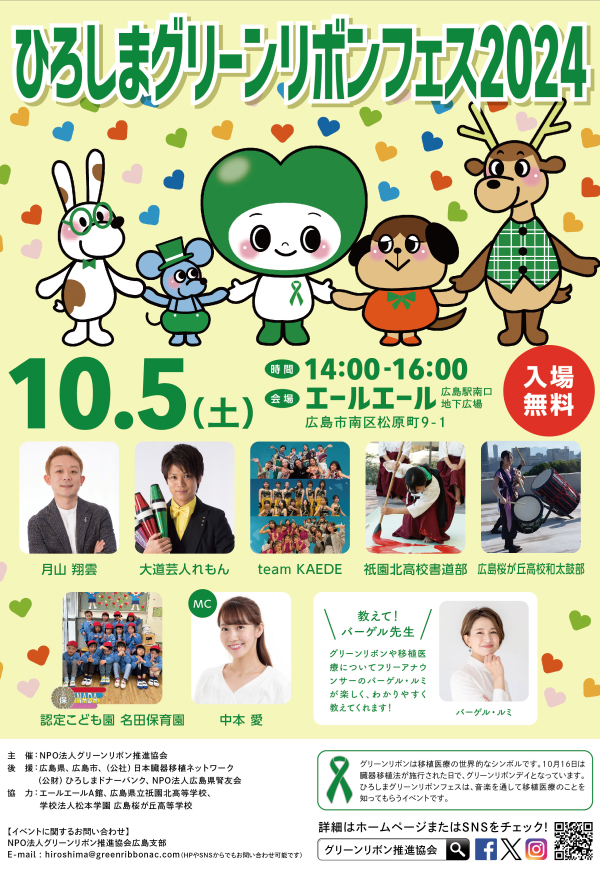
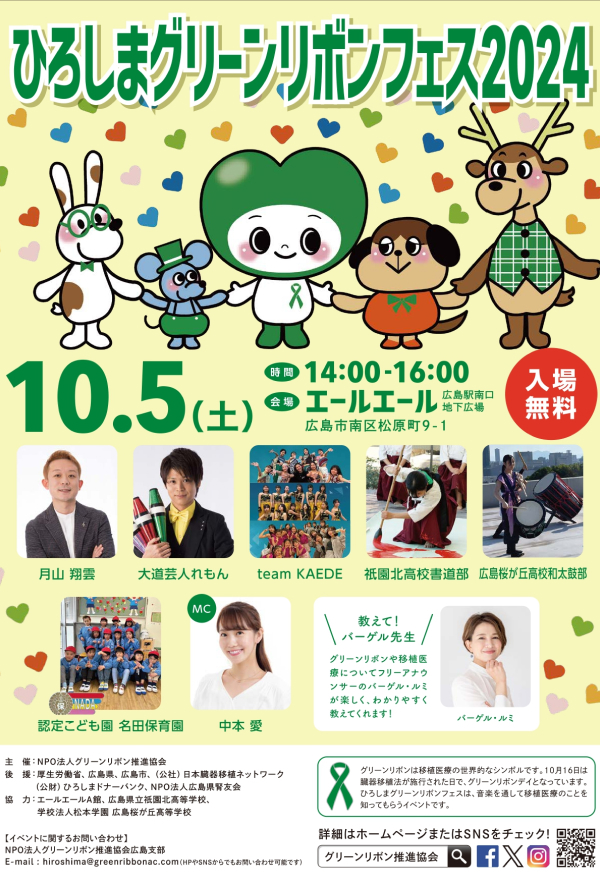
feat: フェスのフライヤーを後援が追加されたものに修正
#81

diff --git a/docs/index.html b/docs/index.html
@@ -84,7 +84,7 @@
             </div><!-- mv__wrapper -->
         </section>
 
-	<a href="https://drive.google.com/file/d/1JG16pJQr_NjrNKQ9CYvT5w0fnb7-UMJH/view?usp=drive_link" style="margin: 5% 15% 0 15%; display: block; object-fit: fill">
+	<a href="https://drive.google.com/file/d/161hiTnNL8gXV_40ZoGm22MGQQBHdEHfM/view?usp=drive_link" style="margin: 5% 15% 0 15%; display: block; object-fit: fill">
 	  <img src="./img/2024-green-ribbon-fes.jpg" style="object-fit: cover; width: 100%">
 	</a
 >
